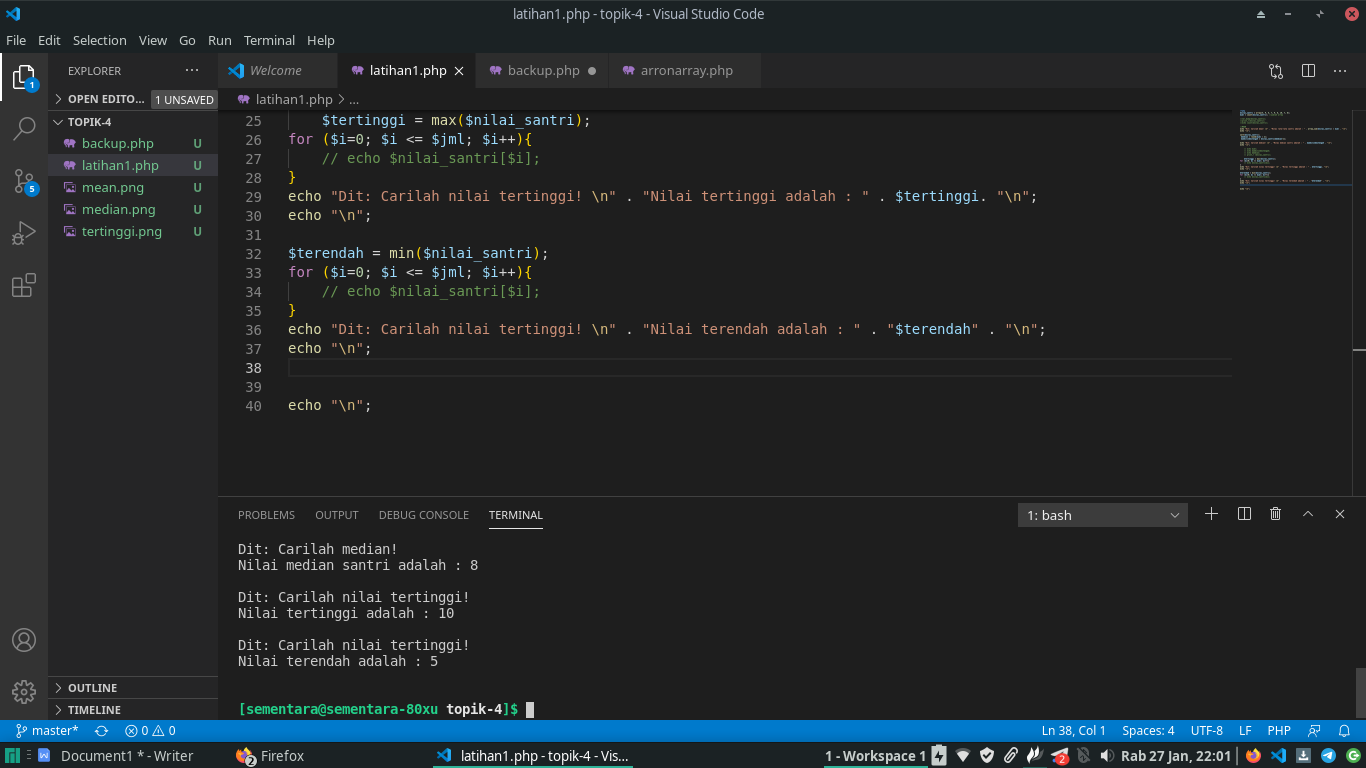
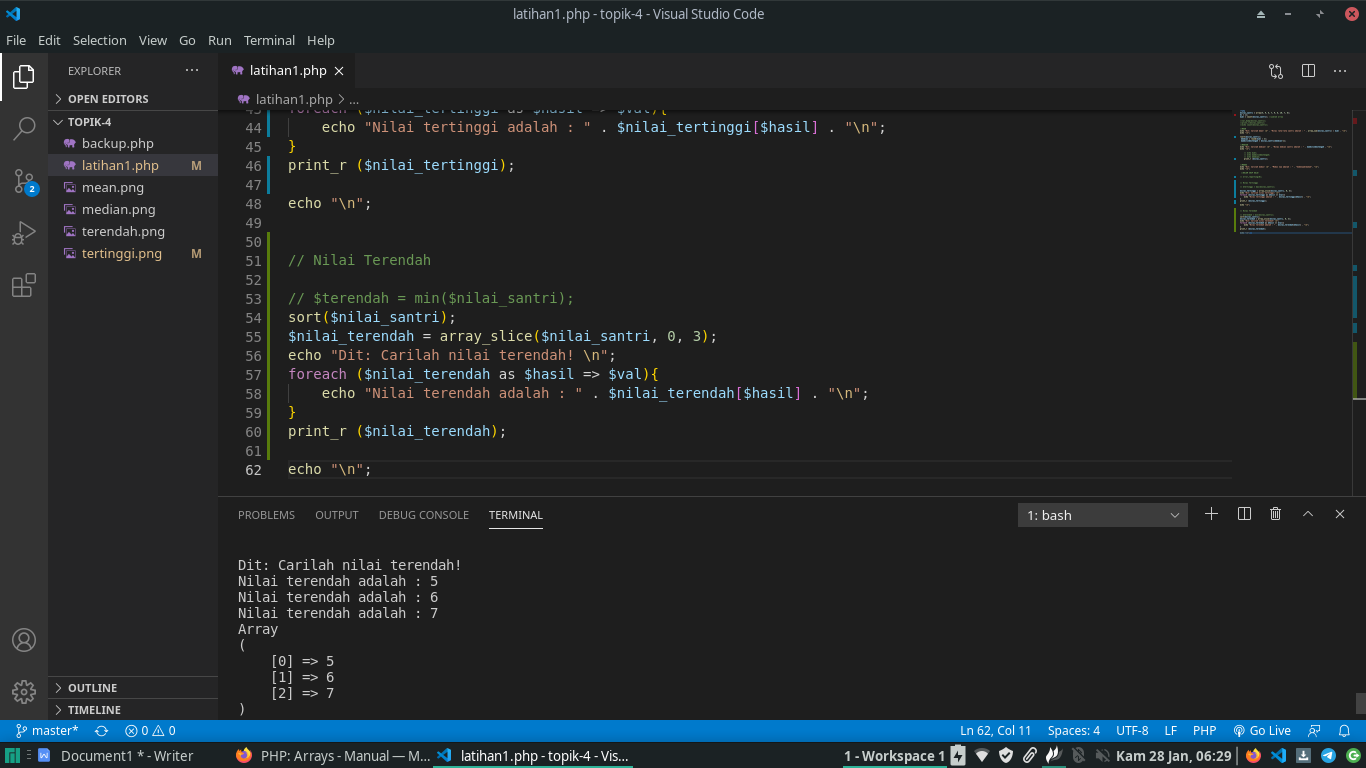
highest dan lowest

diff --git a/sprint-1/topik-4/latihan1.php b/sprint-1/topik-4/latihan1.php
@@ -1,7 +1,6 @@
 <?php
 $nilai_santri = array(5, 9, 6, 7, 9, 8, 10, 7, 8);
 $i = [];
-if(isset($i[1])) echo $i[1];
 $jml = count($nilai_santri); //jumlah array
 
 //var_dump($nilai_santri);
@@ -12,7 +11,7 @@ $jml = count($nilai_santri); //jumlah array
 echo "Dit: Carilah mean! \n" . "Nilai rata-rata santri adalah : " . array_sum($nilai_santri) / $jml . "\n";
 echo "\n";
 
-sort($nilai_santri);
+rsort($nilai_santri);
  $median = round($jml / 2);
  $ambilindextengah = $nilai_santri[$median-1]; 
 
@@ -23,7 +22,7 @@ echo "\n";
     // echo $jml;
     // echo $ambilindextengah;
     // echo $median;
-    // print_r ($nilai_santri);
+    print_r ($nilai_santri);
 
 
 //MODUS
@@ -32,13 +31,32 @@ echo "\n";
 
  //BELUM SKIP DULU!
 
-error_reporting(0);
+// error_reporting(0);
 
-$tertinggi = max($nilai_santri);
-for ($i=0; $i <= $jml; $i++){
-    echo $nilai_santri[$i] . " ";
+
+// Nilai Tertinggi
+
+// $tertinggi = max($nilai_santri);
+
+$nilai_tertinggi = array_slice($nilai_santri, 0, 3);
+echo "Dit: Carilah nilai tertinggi! \n";
+foreach ($nilai_tertinggi as $hasil => $val){
+    echo "Nilai tertinggi adalah : " . $nilai_tertinggi[$hasil] . "\n";
 }
-echo "Dit: Carilah nilai tertinggi! \n" . "Nilai tertinggi adalah : " . $tertinggi . "\n";
+print_r ($nilai_tertinggi);
+
 echo "\n";
+
+
+// Nilai Terendah
+
+// $terendah = min($nilai_santri);
+sort($nilai_santri);
+$nilai_terendah = array_slice($nilai_santri, 0, 3);
+echo "Dit: Carilah nilai terendah! \n";
+foreach ($nilai_terendah as $hasil => $val){
+    echo "Nilai terendah adalah : " . $nilai_terendah[$hasil] . "\n";
+}
+print_r ($nilai_terendah);
 
 echo "\n";
